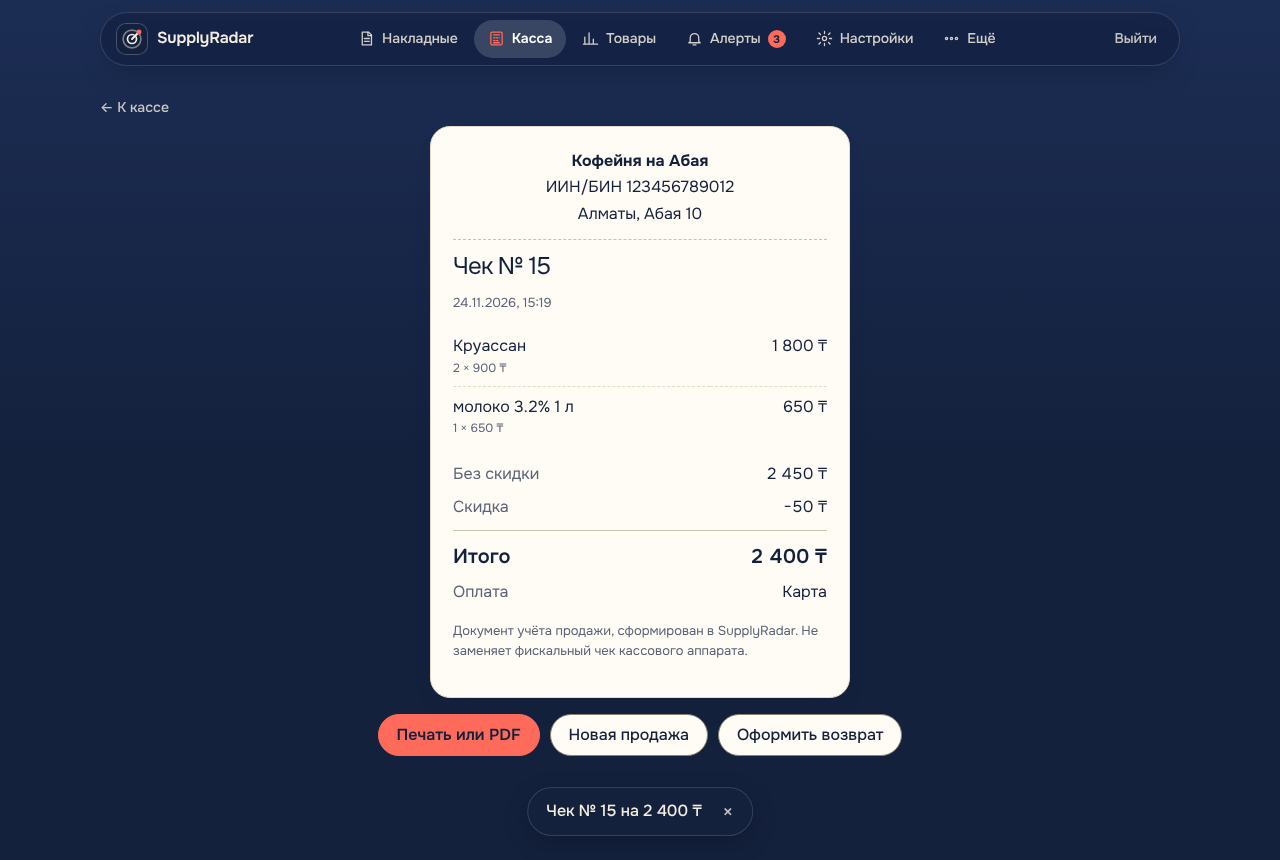
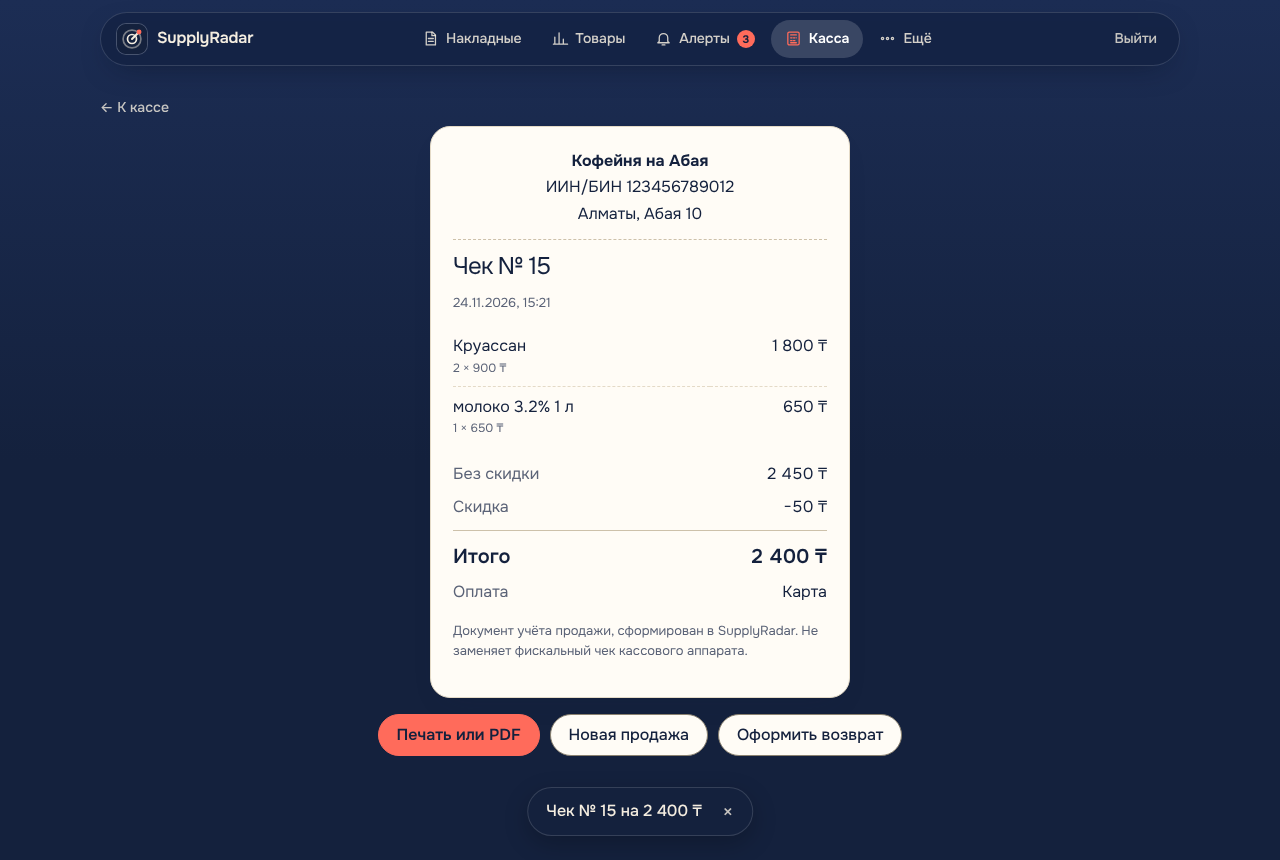
Cash desk takes the settings tab; settings move under «Ещё»
Claude-Session: https://claude.ai/code/session_01KwGjVBDGxEL3AD6Kkxbr3G

Changed region(s): [[0.2812, 0.0, 0.7812, 0.0907]]

diff --git a/src/frontend/app.js b/src/frontend/app.js
@@ -33,6 +33,7 @@
     search: '<svg viewBox="0 0 24 24"><circle cx="11" cy="11" r="6"/><path d="M20 20l-4.5-4.5"/></svg>',
     warn: '<svg viewBox="0 0 24 24"><path d="M12 3l10 18H2z"/><path d="M12 10v5M12 18h.01"/></svg>',
     spark: '<svg viewBox="0 0 24 24"><path d="M12 3l1.8 5.2L19 10l-5.2 1.8L12 17l-1.8-5.2L5 10l5.2-1.8zM19 16l.8 2.2L22 19l-2.2.8L19 22l-.8-2.2L16 19l2.2-.8z"/></svg>',
+    gear: '<svg viewBox="0 0 24 24"><circle cx="12" cy="12" r="3"/><path d="M12 2v3M12 19v3M4.2 4.2l2.1 2.1M17.7 17.7l2.1 2.1M2 12h3M19 12h3M4.2 19.8l2.1-2.1M17.7 6.3l2.1-2.1"/></svg>',
     check: '<svg viewBox="0 0 24 24"><circle cx="12" cy="12" r="9"/><path d="M8 12.5l2.8 2.8L16 9.5"/></svg>',
     calendar: '<svg viewBox="0 0 24 24"><path d="M4 6h16v14H4zM4 10h16M8 3v4M16 3v4"/></svg>',
     cloud: '<svg viewBox="0 0 24 24"><path d="M7 18a5 5 0 1 1 1-9.9A6 6 0 0 1 19 10a4 4 0 0 1-1 8z"/><path d="M4 4l16 16"/></svg>',
@@ -345,7 +346,7 @@
   ];
   // Pages that live under the «Ещё» tab.
   const MORE_SECTIONS = ["more", "suppliers", "orders", "subscription", "assistant", "savings", "claims", "contracts", "locations", "recipes", "telegram", "admin",
-    "expenses", "stock", "reports", "taxes", "access", "shared"];
+    "expenses", "stock", "reports", "taxes", "access", "shared", "settings"];
   // Pages that only make sense for a business: a supplier account is sent to its catalog instead.
   const BUSINESS_ONLY = ["invoices", "products", "alerts", "savings", "claims", "contracts", "locations", "recipes", "assistant", "more", "admin",
     "pos", "receipts", "expenses", "stock", "reports", "taxes"];
@@ -1281,6 +1282,7 @@
     profile = s;
     const supplier = s.business_type === "supplier";
     app.innerHTML = `
+      ${isSupplier() ? "" : '<a class="back" href="#/more">← Ещё</a>'}
       <div class="page-head"><h1>Настройки</h1></div>
       <form class="card" id="settings" style="max-width:520px" novalidate>
         <h2>Бизнес</h2>
@@ -2757,6 +2759,7 @@
         <p class="sub">Касса, отчёты и налоги, склад, поставщики, переплаты и помощник.</p></div>
       <h2 class="tiles-title">Учёт и отчётность</h2>
       <ul class="tiles">
+        ${tile("#/settings", "gear", "Настройки", "Порог алертов, email, название бизнеса")}
         ${tile("#/reports", "chart", "Отчёты и налоги", "Выручка, прибыль, черновик налога, пакет для бухгалтера")}
         ${tile("#/expenses", "doc", "Расходы", "Аренда, зарплата, коммунальные, повтор каждый месяц")}
         ${tile("#/stock", "box", "Склад", "Остатки и готовый заказ, когда товара мало")}

diff --git a/src/frontend/index.html b/src/frontend/index.html
@@ -28,10 +28,6 @@
         <svg viewBox="0 0 24 24" aria-hidden="true"><path d="M6 3h9l4 4v14H6z"/><path d="M14 3v5h5M9 12h7M9 16h7"/></svg>
         <span>Накладные</span>
       </a>
-      <a href="#/pos" data-nav="pos" data-for="business">
-        <svg viewBox="0 0 24 24" aria-hidden="true"><rect x="4" y="3" width="16" height="18" rx="2"/><path d="M8 7h8M8 11h2M12 11h2M16 11h0M8 15h2M12 15h2M8 18h8"/></svg>
-        <span>Касса</span>
-      </a>
       <a href="#/products" data-nav="products" data-for="business">
         <svg viewBox="0 0 24 24" aria-hidden="true"><path d="M4 20V10M10 20V4M16 20v-7M22 20H2"/></svg>
         <span>Товары</span>
@@ -52,7 +48,11 @@
         <svg viewBox="0 0 24 24" aria-hidden="true"><path d="M12 3l2.7 5.6 6.1.8-4.5 4.3 1.1 6.1L12 16.9 6.6 19.8l1.1-6.1L3.2 9.4l6.1-.8z"/></svg>
         <span>Тариф</span>
       </a>
-      <a href="#/settings" data-nav="settings">
+      <a href="#/pos" data-nav="pos" data-for="business">
+        <svg viewBox="0 0 24 24" aria-hidden="true"><rect x="4" y="3" width="16" height="18" rx="2"/><path d="M8 7h8M8 11h2M12 11h2M16 11h0M8 15h2M12 15h2M8 18h8"/></svg>
+        <span>Касса</span>
+      </a>
+      <a href="#/settings" data-nav="settings" data-for="supplier" hidden>
         <svg viewBox="0 0 24 24" aria-hidden="true"><circle cx="12" cy="12" r="3"/><path d="M12 2v3M12 19v3M4.2 4.2l2.1 2.1M17.7 17.7l2.1 2.1M2 12h3M19 12h3M4.2 19.8l2.1-2.1M17.7 6.3l2.1-2.1"/></svg>
         <span>Настройки</span>
       </a>
